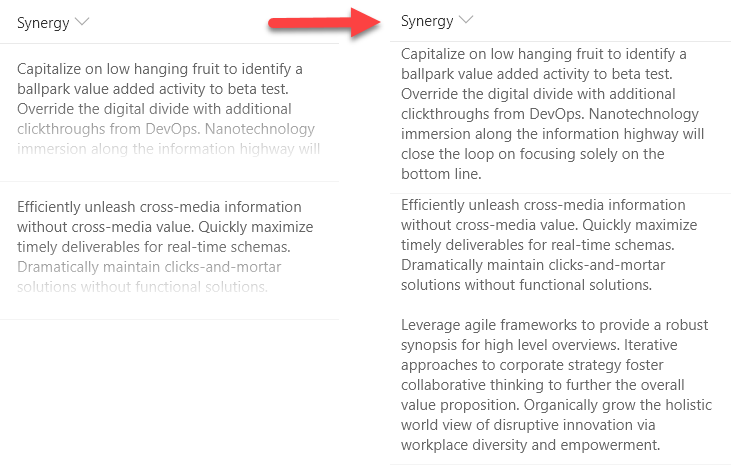
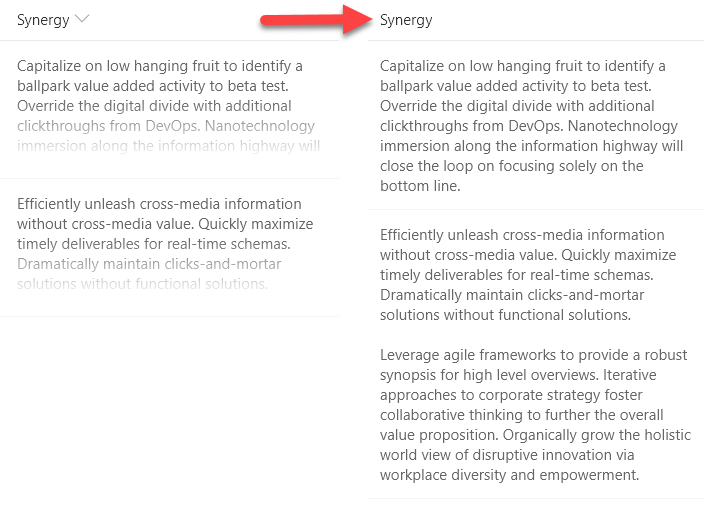
Updated Padding

diff --git a/column-samples/text-wrap-format/README.md b/column-samples/text-wrap-format/README.md
@@ -20,7 +20,7 @@ Version|Date|Comments
 -------|----|--------
 1.0|December 13, 2017|Initial release
 1.1|August 20, 2018|Schema update
-1.2|January 15, 2018|Added padding
+1.2|January 16, 2018|Added padding
 
 ## Disclaimer
 **THIS CODE IS PROVIDED *AS IS* WITHOUT WARRANTY OF ANY KIND, EITHER EXPRESS OR IMPLIED, INCLUDING ANY IMPLIED WARRANTIES OF FITNESS FOR A PARTICULAR PURPOSE, MERCHANTABILITY, OR NON-INFRINGEMENT.**
